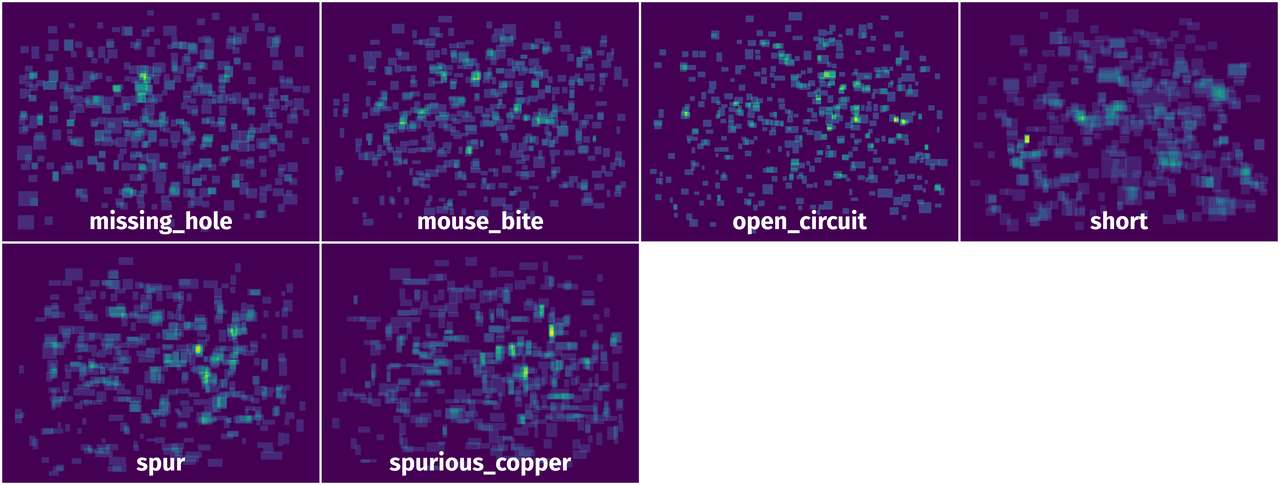
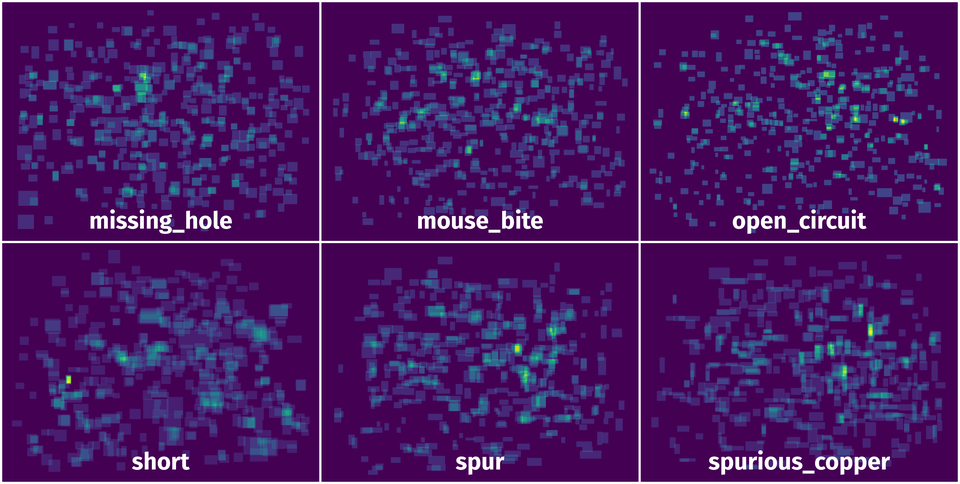
new heatmaps

diff --git a/src/options.py b/src/options.py
@@ -1,6 +1,8 @@
-from dataset_tools.templates import AnnotationType
-from src.settings import ANNOTATION_TYPES
 from typing import List
+
+from dataset_tools.templates import AnnotationType
+
+from src.settings import ANNOTATION_TYPES
 
 ###############################################################################
 # ! Set up values if you want to change default values of visualizations
@@ -69,8 +71,8 @@ CLASSES_PREVIEW_TAGS: List[str] = None
 ### * Set up visualization params for ClassesHeatmaps class ###
 # args for "to_image" method
 DRAW_STYLE: str = None  # "inside_white" or "outside_black"
-HEATMAP_ROWS: int = None
-HEATMAP_COLS: int = None
+HEATMAP_ROWS: int = 2
+HEATMAP_COLS: int = 3
 HEATMAP_GRID_SPACING: int = None
 HEATMAP_OUTER_GRID_SPACING: int = None
 HEATMAP_OUTPUT_WIDTH: int = (
